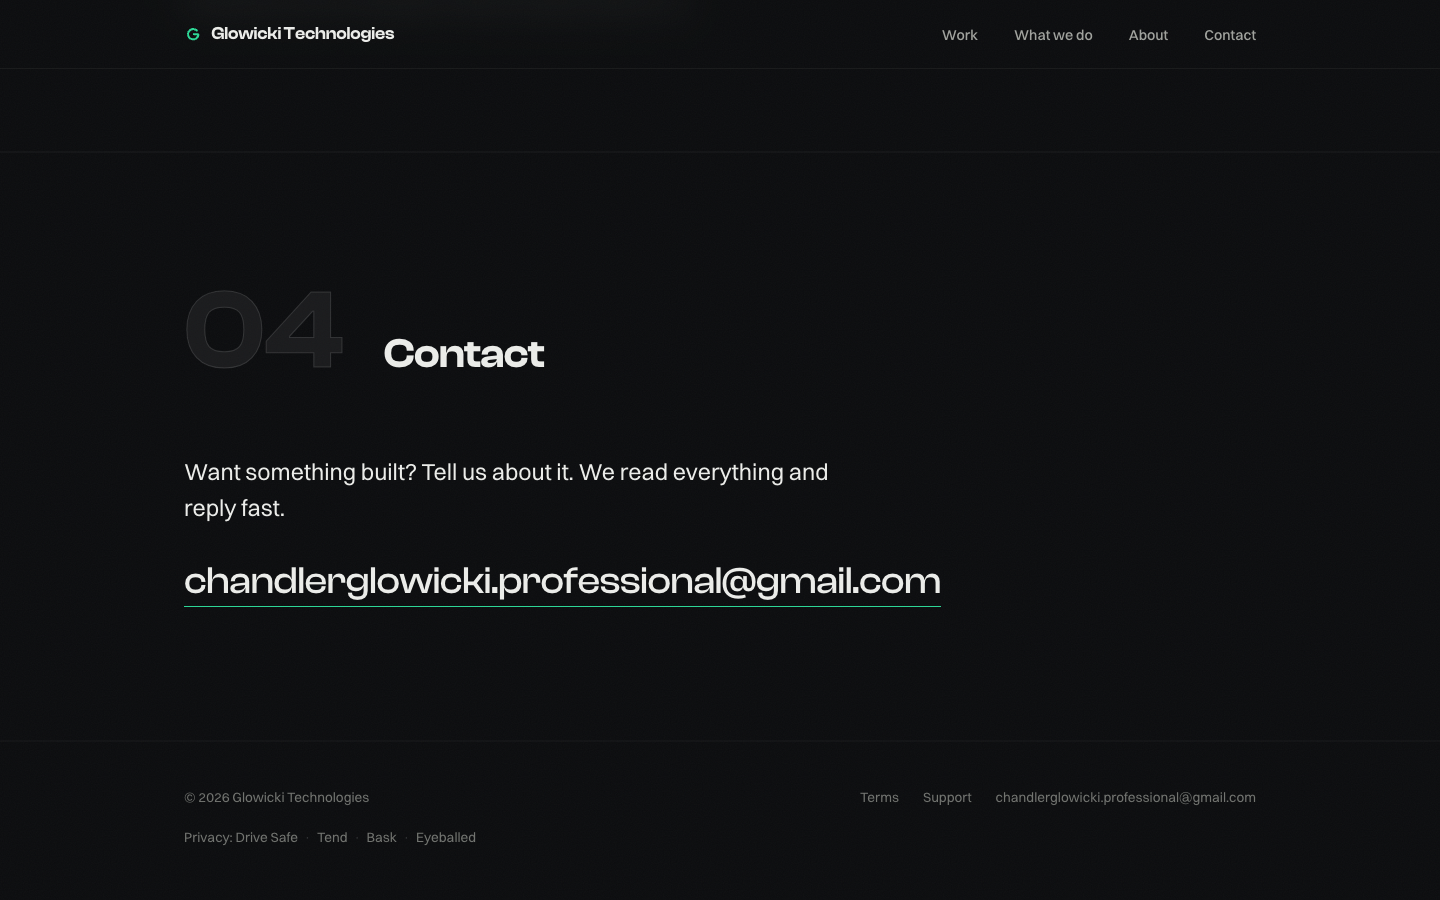
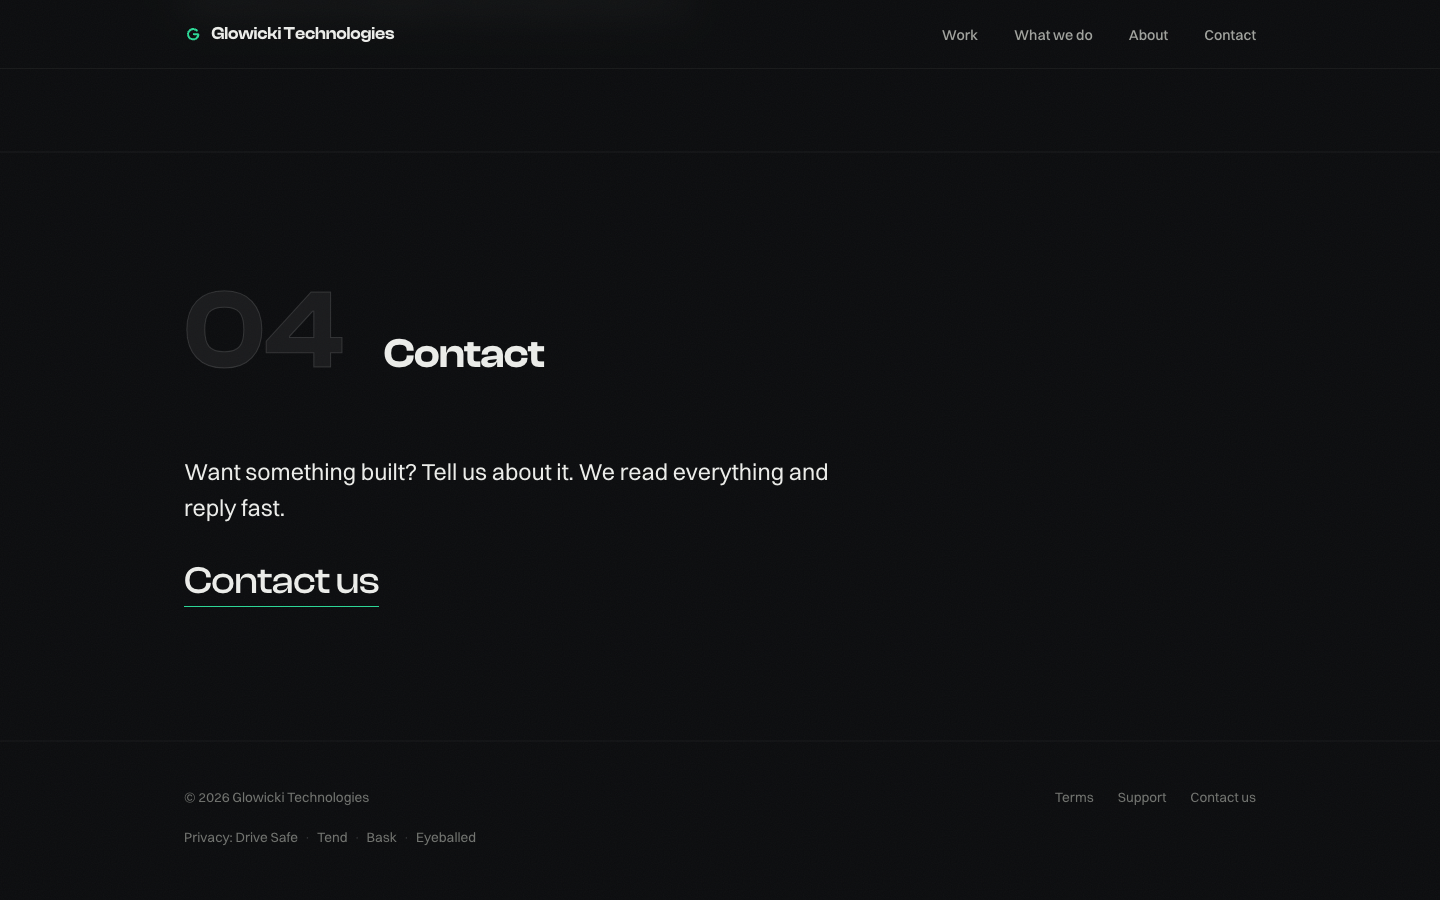
Hide email address behind Contact us link text (#1)
The address contains Chandler's full name; keep every mailto
target but never render the address as visible text.

Changed region(s): [[0.125, 0.6222, 0.6562, 0.6844], [0.6875, 0.8711, 0.875, 0.9022], [0.5938, 0.8711, 0.625, 0.9022]]

diff --git a/privacy/eyeballed.html b/privacy/eyeballed.html
@@ -71,13 +71,13 @@
         </ul>
 
         <h2>Deleting your data</h2>
-        <p>Email <a href="mailto:[email redacted]">[email redacted]</a> from within reach of your account (include your username) and we will delete your account and its data. Unclaimed guest accounts contain nothing that identifies you, but we will delete those on request too.</p>
+        <p><a href="mailto:[email redacted]">Email us</a> with your username and we will delete your account and its data. Unclaimed guest accounts contain nothing that identifies you, but we will delete those on request too.</p>
 
         <h2>Changes to this policy</h2>
         <p>If this policy changes, we will update this page and the effective date above.</p>
 
         <h2>Contact</h2>
-        <p>Questions? Email <a href="mailto:[email redacted]">[email redacted]</a>.</p>
+        <p>Questions? <a href="mailto:[email redacted]">Email us</a>.</p>
       </article>
     </div>
   </main>
@@ -89,7 +89,7 @@
         <ul class="footer-links">
           <li><a href="../terms.html">Terms</a></li>
           <li><a href="../support.html">Support</a></li>
-          <li><a href="mailto:[email redacted]">[email redacted]</a></li>
+          <li><a href="mailto:[email redacted]">Contact us</a></li>
         </ul>
       </div>
     </div>

diff --git a/index.html b/index.html
@@ -136,7 +136,7 @@
           <h2 class="section-title">Contact</h2>
         </div>
         <p class="about-copy reveal" style="margin-bottom: 1.5rem;">Want something built? Tell us about it. We read everything and reply fast.</p>
-        <p class="reveal"><a class="contact-email link-underline" href="mailto:[email redacted]">[email redacted]</a></p>
+        <p class="reveal"><a class="contact-email link-underline" href="mailto:[email redacted]">Contact us</a></p>
       </div>
     </section>
 
@@ -149,7 +149,7 @@
         <ul class="footer-links">
           <li><a href="terms.html">Terms</a></li>
           <li><a href="support.html">Support</a></li>
-          <li><a href="mailto:[email redacted]">[email redacted]</a></li>
+          <li><a href="mailto:[email redacted]">Contact us</a></li>
         </ul>
       </div>
       <p class="privacy-list">Privacy:

diff --git a/privacy/bask.html b/privacy/bask.html
@@ -62,7 +62,7 @@
         <p>If this policy changes, we will update this page and the effective date above.</p>
 
         <h2>Contact</h2>
-        <p>Questions? Email <a href="mailto:[email redacted]">[email redacted]</a>.</p>
+        <p>Questions? <a href="mailto:[email redacted]">Email us</a>.</p>
       </article>
     </div>
   </main>
@@ -74,7 +74,7 @@
         <ul class="footer-links">
           <li><a href="../terms.html">Terms</a></li>
           <li><a href="../support.html">Support</a></li>
-          <li><a href="mailto:[email redacted]">[email redacted]</a></li>
+          <li><a href="mailto:[email redacted]">Contact us</a></li>
         </ul>
       </div>
     </div>

diff --git a/privacy/drive-safe.html b/privacy/drive-safe.html
@@ -62,7 +62,7 @@
         <p>If this policy changes, we will update this page and the effective date above.</p>
 
         <h2>Contact</h2>
-        <p>Questions? Email <a href="mailto:[email redacted]">[email redacted]</a>.</p>
+        <p>Questions? <a href="mailto:[email redacted]">Email us</a>.</p>
       </article>
     </div>
   </main>
@@ -74,7 +74,7 @@
         <ul class="footer-links">
           <li><a href="../terms.html">Terms</a></li>
           <li><a href="../support.html">Support</a></li>
-          <li><a href="mailto:[email redacted]">[email redacted]</a></li>
+          <li><a href="mailto:[email redacted]">Contact us</a></li>
         </ul>
       </div>
     </div>

diff --git a/privacy/tend.html b/privacy/tend.html
@@ -64,7 +64,7 @@
         <p>If this policy changes, we will update this page and the effective date above.</p>
 
         <h2>Contact</h2>
-        <p>Questions? Email <a href="mailto:[email redacted]">[email redacted]</a>.</p>
+        <p>Questions? <a href="mailto:[email redacted]">Email us</a>.</p>
       </article>
     </div>
   </main>
@@ -76,7 +76,7 @@
         <ul class="footer-links">
           <li><a href="../terms.html">Terms</a></li>
           <li><a href="../support.html">Support</a></li>
-          <li><a href="mailto:[email redacted]">[email redacted]</a></li>
+          <li><a href="mailto:[email redacted]">Contact us</a></li>
         </ul>
       </div>
     </div>

diff --git a/support.html b/support.html
@@ -38,7 +38,7 @@
         <h1>Support</h1>
         <p class="meta-line">We reply within 2 business days, usually sooner.</p>
 
-        <p class="lede">Every app we make is supported by the people who built it. One email address reaches us for all of them: <a href="mailto:[email redacted]">[email redacted]</a>. Put the app name in the subject line so we can help faster.</p>
+        <p class="lede">Every app we make is supported by the people who built it. <a href="mailto:[email redacted]">Email support</a> and put the app name in the subject line so we can help faster.</p>
 
         <h2>Eyeballed</h2>
         <p>The daily visual estimation game at <a href="https://eyeballed.fly.dev" target="_blank" rel="noopener">eyeballed.fly.dev</a>. For account issues, purchase problems, or account deletion, email us with <strong>Eyeballed</strong> in the subject and include your username.</p>
@@ -72,7 +72,7 @@
         <p>&copy; 2026 Glowicki Technologies</p>
         <ul class="footer-links">
           <li><a href="terms.html">Terms</a></li>
-          <li><a href="mailto:[email redacted]">[email redacted]</a></li>
+          <li><a href="mailto:[email redacted]">Contact us</a></li>
         </ul>
       </div>
       <p class="privacy-list">Privacy:

diff --git a/terms.html b/terms.html
@@ -59,7 +59,7 @@
         <p>We may update these terms as the apps evolve. When we do, we will update this page and the effective date above. Continuing to use the apps after a change means you accept the new terms.</p>
 
         <h2>Contact</h2>
-        <p>Questions about these terms? Email <a href="mailto:[email redacted]">[email redacted]</a>.</p>
+        <p>Questions about these terms? <a href="mailto:[email redacted]">Email us</a>.</p>
       </article>
     </div>
   </main>
@@ -70,7 +70,7 @@
         <p>&copy; 2026 Glowicki Technologies</p>
         <ul class="footer-links">
           <li><a href="support.html">Support</a></li>
-          <li><a href="mailto:[email redacted]">[email redacted]</a></li>
+          <li><a href="mailto:[email redacted]">Contact us</a></li>
         </ul>
       </div>
       <p class="privacy-list">Privacy: